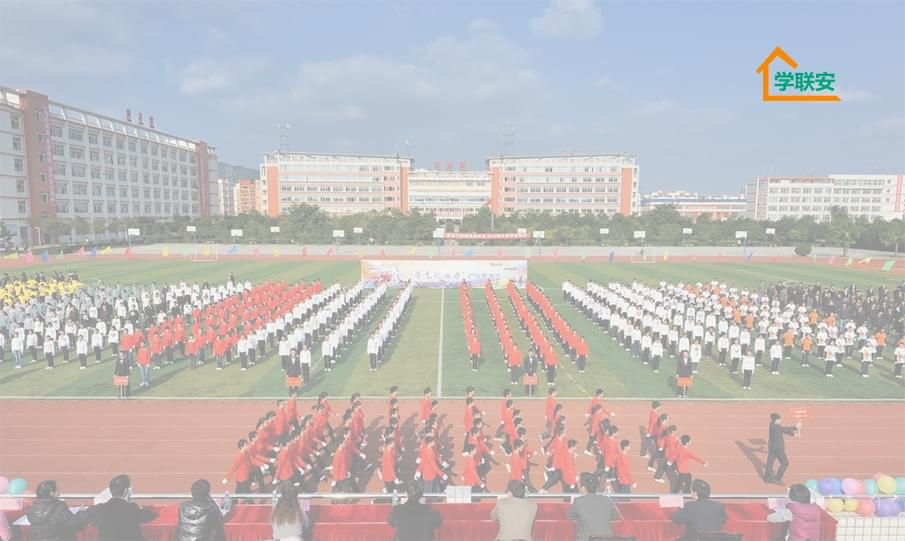
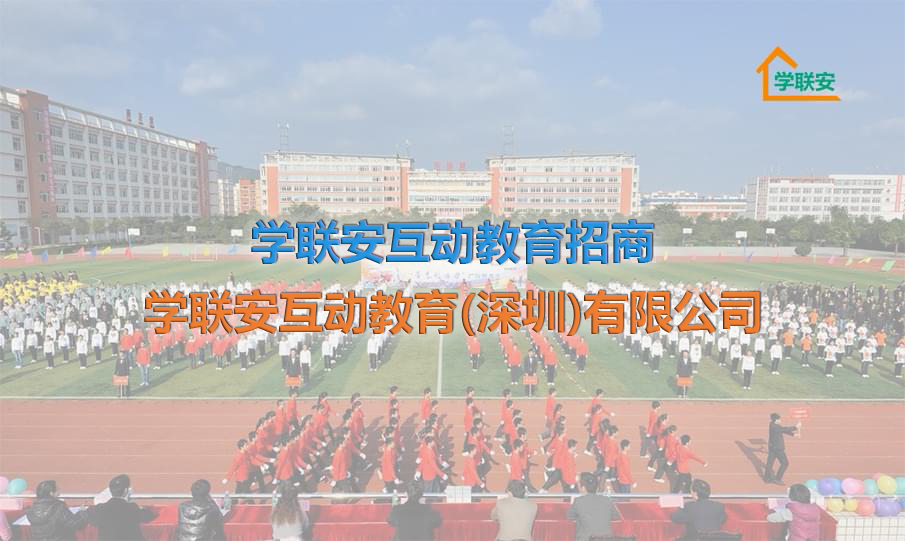
调整完成学联安招商加盟页面
调整完成学联安招商加盟页面

Changed region(s): [[0.1547, 0.5323, 0.8663, 0.6211], [0.2785, 0.3845, 0.7425, 0.5028], [0.8354, 0.0887, 0.8663, 0.1774]]

diff --git a/xla168.html b/xla168.html
@@ -16,7 +16,7 @@
 <body>
     <div class="container">
         <!-- p1 -->
-        <div class="row">
+        <!-- <div class="row">
             <div class="span12 page1" id="page1">
                 <h2>
                     学联安互动教育招商
@@ -26,7 +26,12 @@
                 </h3>
                 <img alt="page02" src="images/page02.jpg" />
             </div>
-        </div>
+        </div> -->
+        <div class="row">
+                <div class="span12 page1" id="page1">
+                    <img alt="page02" src="images/page02.jpg" />
+                </div>
+            </div>
 
         <div class="divclean"></div>
         <!-- p2 -->
@@ -128,7 +133,7 @@
         </div>
 
         <div class="row">
-            <div class="span6 page4">
+            <div class="span6 page4 page4-3w">
                 <h3>
                     3. 移动书店及自动售卖设备（出售文具、饮料、食品等）
                 </h3>

diff --git a/css/style20180822.css b/css/style20180822.css
@@ -142,13 +142,14 @@ h1{
 }
 
 .page4 img {
-    width: 80%;
+    width: 100%;
     display: block;
+    /* box-shadow:0 2px 2px 0 rgba(0,0,0,0.16), 0 0 0 1px rgba(0,0,0,0.08) */
 }
 .page4 h1{
     font-size: 24px;
     font-weight: bold;
-    color: #44546A;
+    color: #44546a;
     background-color: #d8dee2;
     display: block;
     line-height: 40px;
@@ -173,10 +174,13 @@ h1{
     line-height: 30px;
 }
 .page4-2{
-    padding-top: 150px;
+    padding-top: 89px;
 }
 .page4-3{
     padding-top: 50px;
+}
+.page4-3w p{
+    line-height: 400px;
 }
 
 .page5 img {
@@ -1321,6 +1325,12 @@ h1{
 }
 
 @media (max-width:979px) {
+    .page3-left{
+        margin-top: 10px;
+    }
+    .page4-3w p{
+        line-height: 30px;
+    }
     body {
         padding-top: 0;
     }
